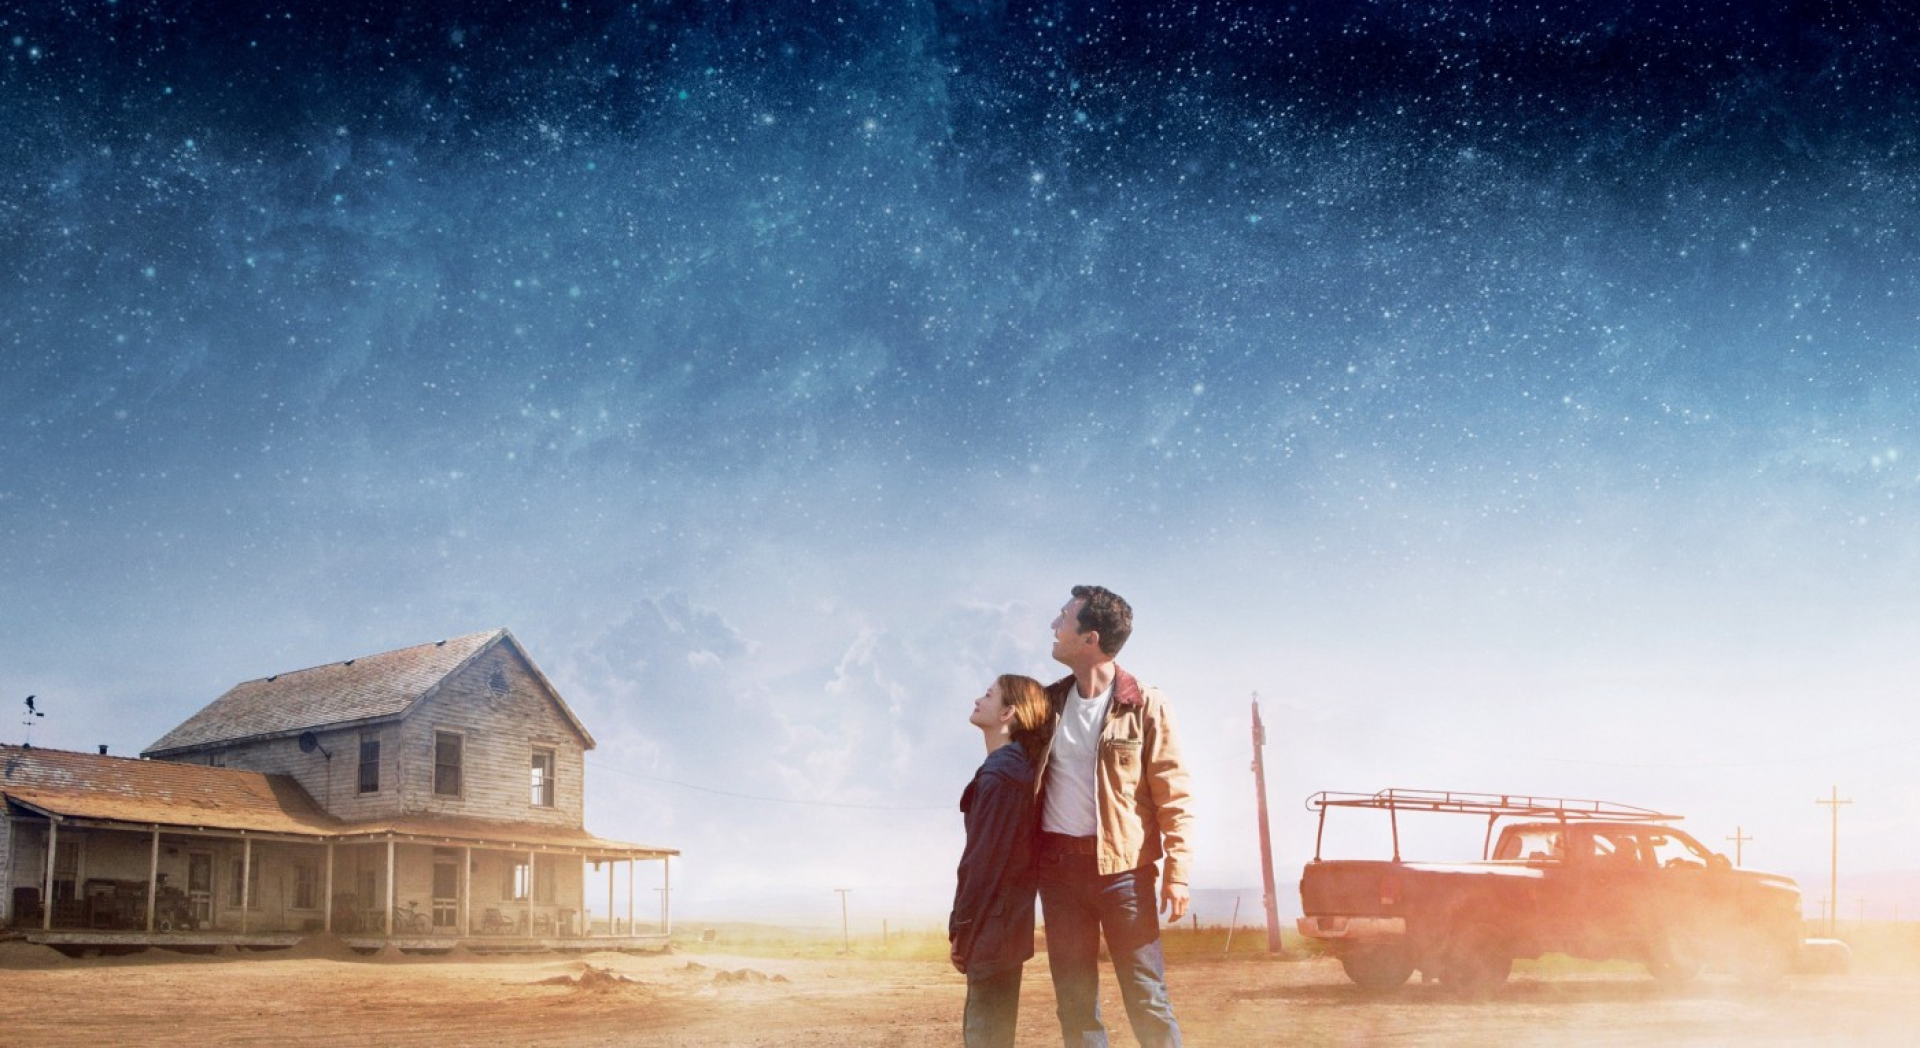
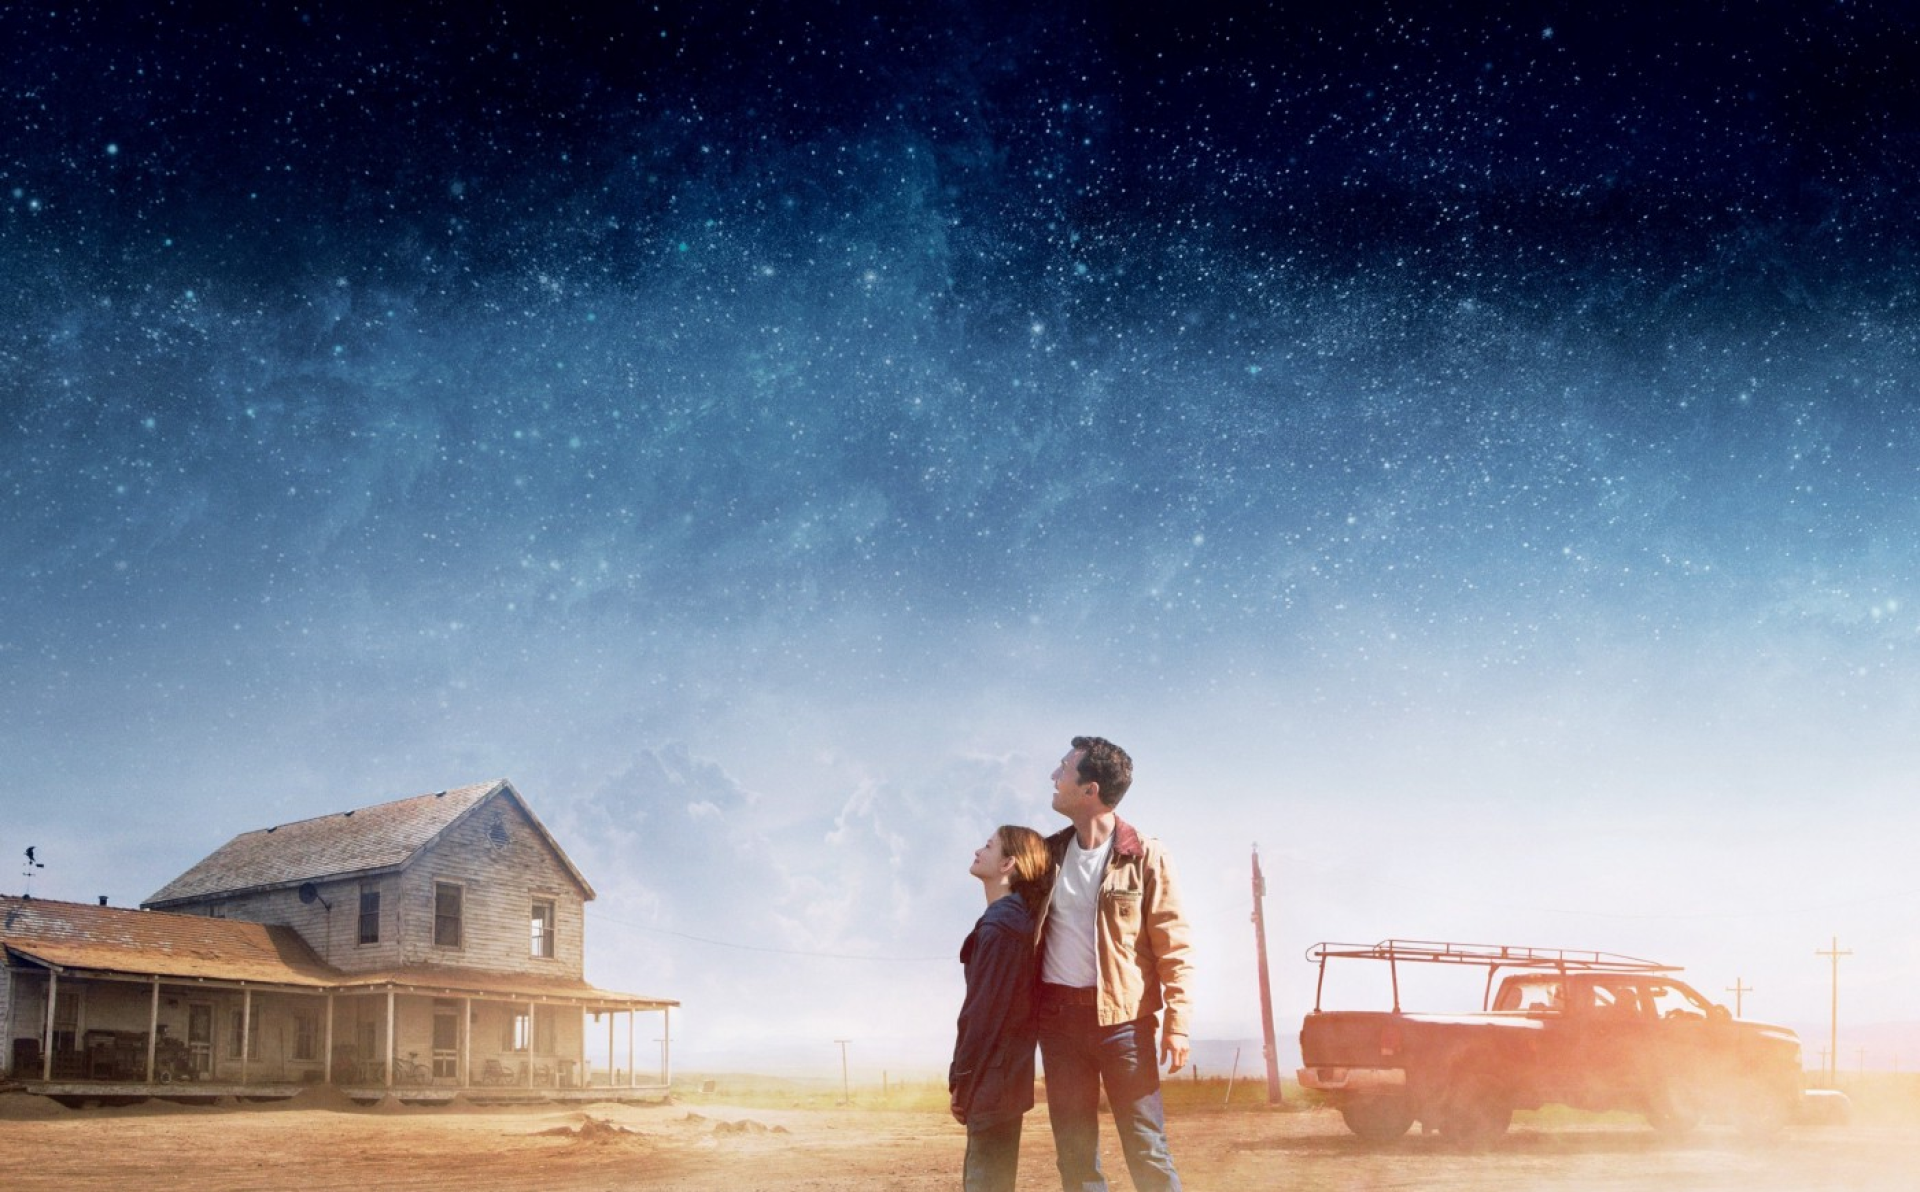
feat: implement mobile design

diff --git a/pages/index.tsx b/pages/index.tsx
@@ -1,38 +1,55 @@
 import Head from 'next/head';
-import Image from 'next/image';
 import { Layout, Navbar, Button, Slides, Footer } from 'components';
-import { SlidePart } from 'public';
+import { serverSideTranslations } from 'next-i18next/serverSideTranslations';
+import { useTranslation } from 'next-i18next';
+import { GetStaticProps } from 'next';
 
-const Home = () => (
-  <>
-    <Head>
-      <title>Epic Movie Quotes</title>
-      <meta name='description' content='Add favorite quotes and share' />
-      <meta name='viewport' content='width=device-width, initial-scale=1' />
-      <link rel='icon' href='/favicon.ico' />
-    </Head>
+const Home = () => {
+  const { t } = useTranslation();
+  return (
+    <>
+      <Head>
+        <title>Epic Movie Quotes</title>
+        <meta name='description' content='Add favorite quotes and share' />
+        <meta name='viewport' content='width=device-width, initial-scale=1' />
+        <link rel='icon' href='/favicon.ico' />
+      </Head>
 
-    <Layout padding={false}>
-      <Navbar />
-      <div className='text-white h-screen flex flex-col'>
-        <div className='my-auto flex justify-center'>
-          <div className='flex flex-col justify-center'>
-            <p className='text-app-yellow font-bold text-6xl leading-normal max-w-2xl text-center'>
-              Find any quote in millions of movie lines
-            </p>
-            <Button
-              text='Get started'
-              className='mx-auto mt-7'
-              style='buttonRed'
-            />
+      <Layout padding={false}>
+        <Layout background={false} padding={false}>
+          <Navbar />
+        </Layout>
+
+        <div className='text-white md:h-[90vh] h-[25rem] flex flex-col'>
+          <div className='my-auto flex justify-center'>
+            <div className='flex flex-col justify-center'>
+              <p className='text-app-yellow font-bold text-2xl leading-9 lg:text-6xl lg:leading-normal max-w-[16rem] lg:max-w-2xl text-center'>
+                Find any quote in millions of movie lines
+                {t('home:msg')}
+              </p>
+              <Button
+                text='Get started'
+                className='mx-auto mt-7'
+                style='buttonRed'
+              />
+            </div>
           </div>
         </div>
-        <Image src={SlidePart} alt='' />
-      </div>
-      <Slides />
-      <Footer />
-    </Layout>
-  </>
-);
+        <main>
+          <Slides />
+        </main>
+        <Footer />
+      </Layout>
+    </>
+  );
+};
 
 export default Home;
+
+export const getStaticProps: GetStaticProps = async ({ locale }) => {
+  return {
+    props: {
+      ...(await serverSideTranslations(locale as string, ['home'])),
+    },
+  };
+};

diff --git a/components/Home/Slides/Slides.tsx b/components/Home/Slides/Slides.tsx
@@ -1,38 +1,40 @@
-import { useHome } from '.';
+import { useSlides } from './useSlides';
 import Image from 'next/image';
 
 const Slides = () => {
-  const { slides } = useHome();
+  const { slides } = useSlides();
   return (
-    <main>
+    <>
       {slides.map((slide, index) => (
         <article
           key={slide.id}
-          className={`sticky top-0 h-screen flex justify-center items-center ${
-            index === 0 && 'mt-[-90px]'
+          className={`lg:sticky relative top-0 lg:h-screen max-w-screen justify-center items-center ${
+            slide.id === 1 && 'lg:mt-[-10vh]'
           }`}
         >
           <Image
             sizes='(max-width: 700px) 50vw, 90vw'
             src={slide.img}
             alt={slide.quote}
-            fill
-            className='object-cover -z-10'
+            className='object-cover -z-10 min-h-[33rem] md:min-h-[61rem] max-h-screen'
+            {...(slide.id === 1 && { priority: true })}
           />
-          <div className='grid grid-cols-12 text-left w-full'>
-            <div className='col-span-1 col-start-2 flex justify-end'>
-              <div className='border-t-2 border-white mt-8 w-12 mr-5' />
+          <div className='absolute inset-0 flex justify-center items-center'>
+            <div className='grid grid-cols-12 text-left w-full'>
+              <div className='col-span-1 col-start-2 flex justify-end'>
+                <div className='border-t-2 border-white lg:mt-8 mt-4 w-12 mr-5' />
+              </div>
+              <p className='lg:text-5xl text-xl font-bold lg:leading-normal leading-7 lg:col-span-7 col-span-9 col-start-3'>
+                {slide.quote}
+              </p>
+              <p className='text-base font-bold leading-6 col-span-7 col-start-3 text-[#D9D9D9] mt-5'>
+                {slide.film}
+              </p>
             </div>
-            <p className='text-5xl font-bold leading-normal col-span-7 col-start-3'>
-              {slide.quote}
-            </p>
-            <p className='text-base font-bold leading-6 col-span-7 col-start-3 text-[#D9D9D9] mt-5'>
-              {slide.film}
-            </p>
           </div>
         </article>
       ))}
-    </main>
+    </>
   );
 };
 export default Slides;

diff --git a/components/shared/Navbar.tsx b/components/shared/Navbar.tsx
@@ -4,11 +4,17 @@ const Navbar = () => {
   return (
     <div className='py-6 relative top-0 w-full backdrop-blur-xl'>
       <Layout background={false} className='flex-row w-full items-center'>
-        <div className='uppercase text-app-yellow'>Movie Quotes</div>
+        <div className='uppercase text-app-yellow text-base leading-6 font-medium'>
+          Movie Quotes
+        </div>
         <nav className='flex ml-auto gap-5 items-center'>
           <div>Eng</div>
-          <Button text='Sign Up' style='buttonRed' className='text-base' />
-          <Button text='Log in' className='text-base' />
+          <Button
+            text='Sign Up'
+            style='buttonRed'
+            className='text-base hidden lg:block'
+          />
+          <Button text='Log in' className='text-base px-6' />
         </nav>
       </Layout>
     </div>

diff --git a/components/Home/Footer.tsx b/components/Home/Footer.tsx
@@ -1,11 +1,11 @@
 import { Layout } from 'components';
 
 const Footer = () => (
-  <Layout padding={false}>
-    <div className='flex items-center h-12 text-[#DDCCAA] bg-gradient-to-b from-[#181623] via-[#191725] to-[#0D0B14]'>
+  <div className='flex items-center h-7 md:h-12 text-[#DDCCAA] text-[.5rem] md:text-base bg-gradient-to-b from-[#181623] via-[#191725] to-[#0D0B14]'>
+    <Layout background={false}>
       © 2022 movie quotes. All rights reserved.
-    </div>
-  </Layout>
+    </Layout>
+  </div>
 );
 
 export default Footer;

diff --git a/components/shared/Button.tsx b/components/shared/Button.tsx
@@ -11,7 +11,7 @@ const Button = ({
     'border-app-red bg-app-red hover:bg-[#CC0E10] hover:border-[#CC0E10] active:bg-[#B80D0F] active:border-[#F07C84] active:ring-1 active:ring-[#F07C84]';
   return (
     <button
-      className={`px-6 py-2 rounded leading-normal font-normal text-xl text-white border
+      className={`px-4 lg:px-6 py-2 rounded font-normal text-base leading-6 lg:text-xl lg:leading-normal  text-white border
          transition ${style === 'buttonRed' ? buttonRed : ''} 
          ${className}`}
     >

diff --git a/components/shared/Layout.tsx b/components/shared/Layout.tsx
@@ -12,7 +12,9 @@ const Layout = ({
     }`}
   >
     <div
-      className={`${padding ? 'px-[4.4rem]' : ''} flex text-white ${className}`}
+      className={`${
+        padding ? 'px-9 lg:px-[4.4rem]' : ''
+      } flex text-white ${className}`}
     >
       {children}
     </div>

diff --git a/public/assets/images/index.ts b/public/assets/images/index.ts
@@ -1,4 +1,3 @@
 export { default as Interstellar } from './img-1.png';
 export { default as RoyalTenenbaums } from './img-2.png';
 export { default as LordOfTheRings } from './img-3.png';
-export { default as SlidePart } from './img-4.png';

diff --git a/components/Home/Slides/useSlides.ts b/components/Home/Slides/useSlides.ts
@@ -1,6 +1,6 @@
 import { RoyalTenenbaums, Interstellar, LordOfTheRings } from 'public';
 
-export const useHome = () => {
+export const useSlides = () => {
   const slides = [
     {
       img: Interstellar,

diff --git a/tailwind.config.js b/tailwind.config.js
@@ -2,7 +2,7 @@
 module.exports = {
   content: [
     './pages/**/*.{js,ts,jsx,tsx}',
-    './Components/**/*.{js,ts,jsx,tsx}',
+    './components/**/*.{js,ts,jsx,tsx}',
   ],
   theme: {
     extend: {
